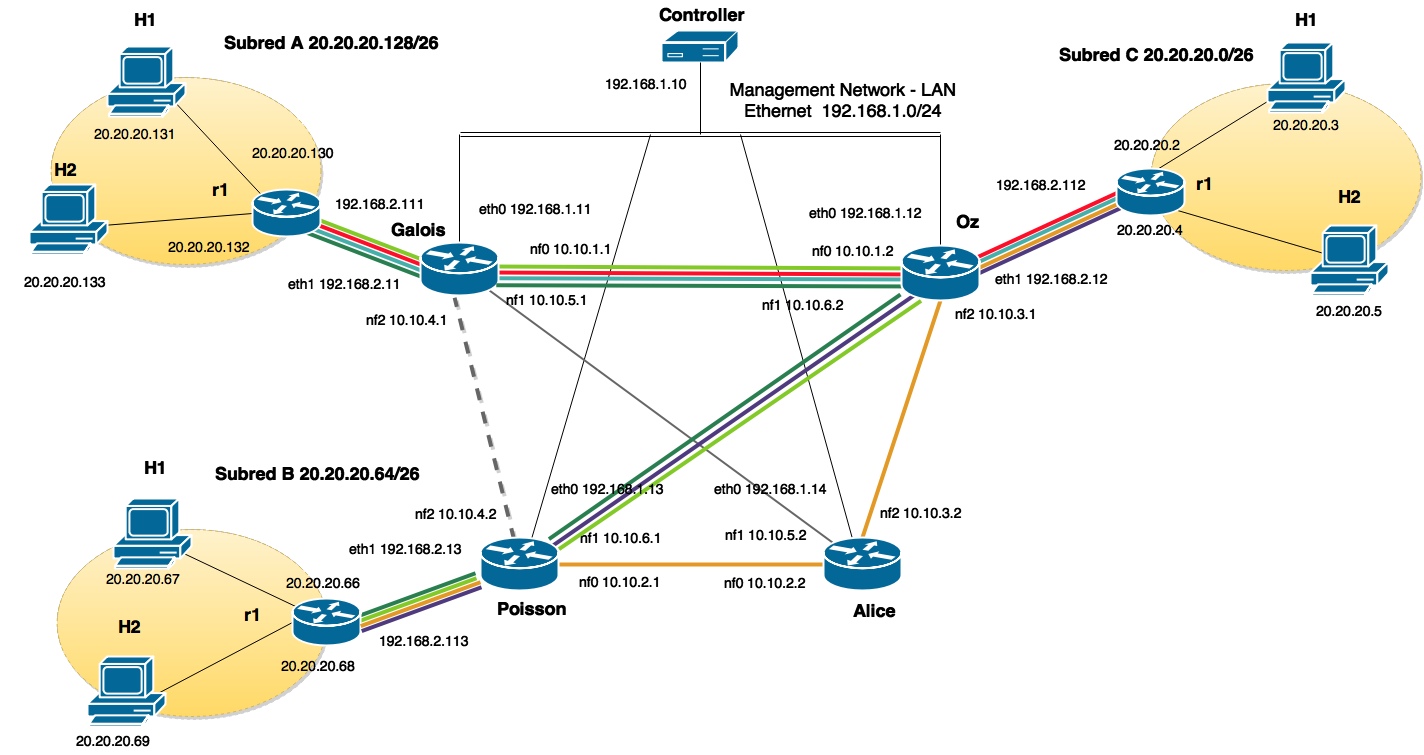
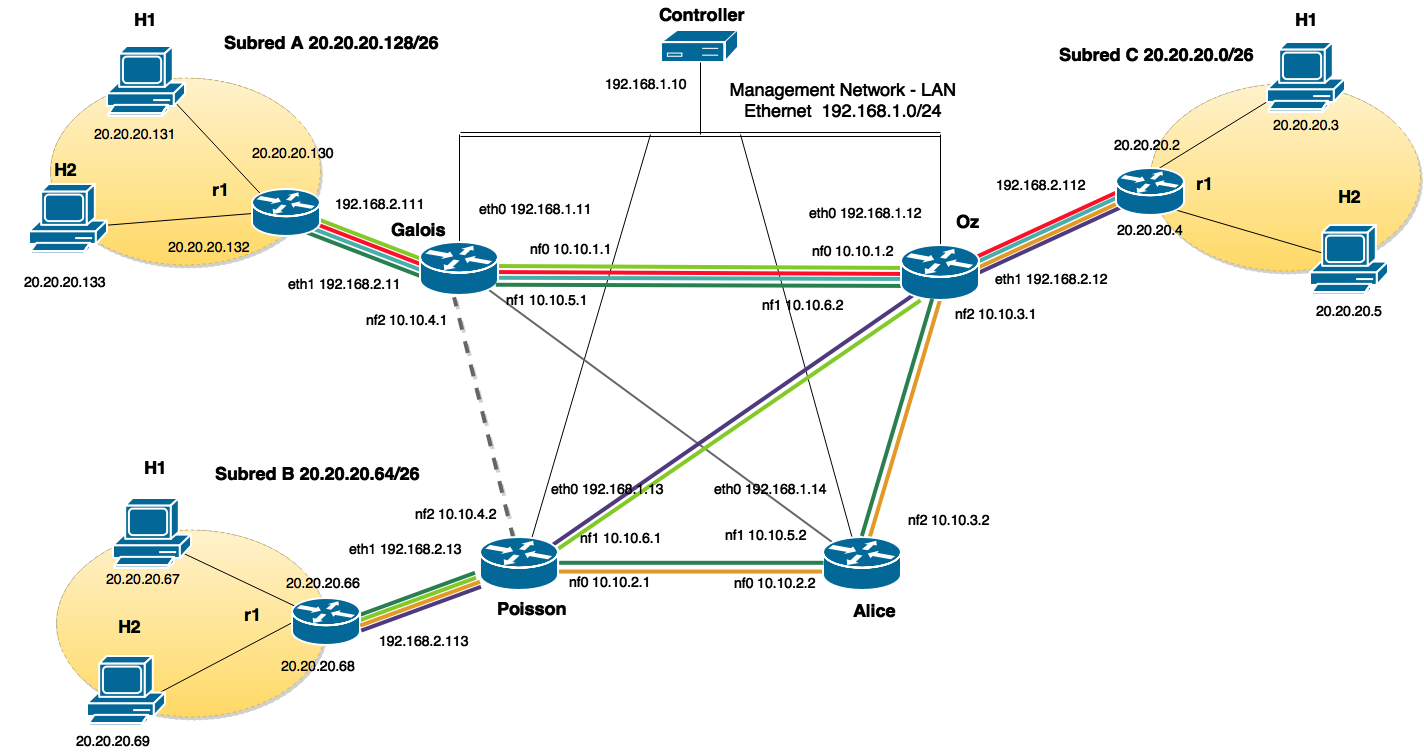
Se sigue trabajando en capitulo 6

diff --git a/Informe/Chapter6/chapter6.tex b/Informe/Chapter6/chapter6.tex
@@ -128,105 +128,107 @@ Para obtener los caminos calculados por el algoritmo de ruteo, se analizan las t
 
 En las figuras ~\ref{fig:CU1P1DumpFlows1}~-~\ref{fig:CU1P1DumpFlows4} se muestran las tablas de flujos asociadas a cada nodo del laboratorio. Para conseguir esta informaci\'on se utiliza el comando \textbf{dump-flows} de la herrmaienta Open vSwitch. Sin embargo puede obtenerse tambi\'en esta informaci\'on desde la propia interfaz gr\'afica de RAUFlow.\\
 
+Asumiendose la notaci\'on $(n, i)$ para referirse a un enlace, donde \textit{n} indica nodo origen e \textit{i} interfaz de reenvío en \textit{n} para el próximo salto, entonces $<(n_1, i_1), \dots, (n_k, i_k)>$ puede usarse para denotar un camino en el laboratorio. De esta forma se pueden comparar f\'acilmente los caminos te\'oricos con los calculados.\\
+
+Tomando como ejemplo el caso del servicio S3, el camino te\'orico puede denotarse de la siguiente forma:
+ 
+$$<(Galois, nf_2)>$$
+
 \begin{figure}[ht!] 
 \centering    
-\includegraphics[width=1.0\textwidth]{E1P1Gal}
+\includegraphics[width=1.0\textwidth]{LabE1P1Gal}
 \caption[Tabla de flujos ovs - Galois]{Tabla de flujos ovs - Galois}
 \label{fig:CU1P1DumpFlows1}
 \end{figure}
 
 \begin{figure}[ht!] 
 \centering    
-\includegraphics[width=1.0\textwidth]{E1P1Oz}
+\includegraphics[width=1.0\textwidth]{LabE1P1Oz}
 \caption[Tabla de flujos ovs - Oz]{Tabla de flujos ovs - Oz}
 \label{fig:CU1P1DumpFlows2}
 \end{figure}
 
 \begin{figure}[ht!] 
 \centering    
-\includegraphics[width=1.0\textwidth]{E1P1Poi}
+\includegraphics[width=1.0\textwidth]{LabE1P1Poi}
 \caption[Tabla de flujos ovs - Poisson]{Tabla de flujos ovs - Poisson}
 \label{fig:CU1P1DumpFlows3}
 \end{figure}
 
 \begin{figure}[ht!] 
 \centering    
-\includegraphics[width=1.0\textwidth]{E1P1Al}
+\includegraphics[width=1.0\textwidth]{LabE1P1Al}
 \caption[Tabla de flujos ovs - Alice]{Tabla de flujos ovs - Alice}
 \label{fig:CU1P1DumpFlows4}
 \end{figure}
 
-Asumiendose la notaci\'on $(n, i)$ para referirse a un enlace, donde \textit{n} indica nodo origen e \textit{i} interfaz de reenvío en \textit{n} para el próximo salto, entonces $<(n_1, i_1), \dots, (n_k, i_k)>$ puede usarse para denotar un camino en el laboratorio. De esta forma se pueden comparar f\'acilmente los caminos te\'oricos con los calculados.\\
 
-Tomando como ejemplo el caso del servicio S5, el camino te\'orico puede denotarse de la siguiente forma:
- 
-$$<(Poisson, nf_1)>$$
+En otras palabras todo tr\'afico IP con origen en la subred A y destino a la subred B, es encaminado a través de la interfaz $nf_2$ en el nodo de ingreso \textit{Galois}. Luego en el nodo de egreso \textit{Poisson} es reenviado por la correspondiente interfaz del servicio.\\
 
-En otras palabras todo tr\'afico IP con origen en la subred B y destino a la subred C, es encaminado a través de la interfaz $nf_1$ en el nodo de ingreso \textit{Poisson}. Luego en el nodo de egreso \textit{Oz} es reenviado por la correspondiente interfaz del servicio.\\
+Analizando las tablas de flujos de los nodos \textit{Galois} y \textit{Poisson}, puede comprobarse fácilmente la correspondencia entre el camino calculado y el camino te\'orico.
 
-Analizando las tablas de flujos de los nodos \textit{Poisson} y \textit{Oz}, puede comprobarse fácilmente la correspondencia entre el camino calculado y el camino te\'orico.
-
-Por un lado en la tabla de flujos de \textit{Poisson} se tiene el siguiente flujo:
+Por un lado en la tabla de flujos de \textit{Galois} se tiene el siguiente flujo:
 
 %Por un lado, acorde a la definci\'on del servicio, Galois debería reenviar todo tr\'afico de tipo \textbf{ip} que ingresa por la interfaz eth1(la cual se corresponde con el n\'umero de puerto openflow 1), con origen en la subred 20.20.20.64/26 y destino 20.20.20.0/64 por la interfaz nf1(la cual se corresponde con el n\'umero de puerto openflow 3).
 
 \begin{center}
-\textit{cookie=0.0, duration=1978.558s, table=0, n\_packets=0, n\_bytes=0, priority=5, \\
-ip,in\_port=1, nw\_src=20.20.20.64/26,nw\_dst=20.20.20.0/26 \\
-actions=dec\_ttl,push\_mpls:0x8847,set\_field:34->mpls\_label,set\_mpls\_ttl(128),output:3 }
+\textit{cookie=0.0, duration=531.354s, table=0, n\_packets=0, n\_bytes=0, priority=5, \\
+ip,in\_port=1, nw\_src=20.20.20.128/26,nw\_dst=20.20.20.0/26 \\
+actions=dec\_ttl,push\_mpls:0x8847,set\_field:30->mpls\_label,set\_mpls\_ttl(128),output:4}
+\label{lst:flows1}
 \end{center}
 
-En pocas palabras este flujo toma todo paquete recibido por el puerto openflow identificado con el n\'umero 1(interfaz eth1), numeración IP origen 20.20.20.64/26(subred B) y destino 20.20.20.0/26 (subred C), decrementa el ttl del paquete, coloca un cabezal mpls con la etiqueta 34 y lo reenvía por el puerto openflow identificado con el n\'umero 3(interfaz nf1). Observar el valor de la etiqueta mpls colocado en el mismo para identificar el servicio(etiqueta interna). 
+En pocas palabras este flujo toma todo paquete recibido por el puerto openflow identificado con el n\'umero 1(interfaz eth1), numeración IP origen 20.20.20.128/26(subred A) y destino 20.20.20.64/26 (subred B), decrementa el ttl del paquete, coloca un cabezal mpls con la etiqueta 32 y lo reenvía por el puerto openflow identificado con el n\'umero 4(interfaz nf2). Observar el valor de la etiqueta mpls colocado en el mismo para identificar el servicio(etiqueta interna). 
 
 %Notese adem\'as la acci\'on \textbf{dec\_ttl} en el flujo. Esta acci\'on es utilizada en cada nodo de borde en la definici\'on de un servicio para decrementar el ttl de un paquete ip cada vez que ingresa a la red del prototipo (en este caso a la red del laboratorio). Observese tambi\'en el valor de la etiqueta mpls(34) colocado en el paquete para identificar el servicio(etiqueta interna).
 
-Por otro lado, una vez que los paquetes asociados al servicio S5 llegan a nodo \textit{Oz} ingresando por la interfaz nf1(puerto openflow n\'umero 3), debe ser retirada la etiqueta mpls interna y reenviarse a través de la interfaz eth1(puerto openflow n\'umero 1).
+Por otro lado, una vez que los paquetes asociados al servicio S3 llegan a nodo \textit{Poisson} ingresando por la interfaz nf2(puerto openflow n\'umero 4), debe ser retirada la etiqueta mpls interna y reenviarse a través de la interfaz eth1(puerto openflow n\'umero 1).
 
-Este comportamiento es implementado en la tabla de flujos de Oz mediante el siguiente flujo:
+Este comportamiento es implementado en la tabla de flujos de Poisson mediante el siguiente flujo:
 
 \begin{center}
-\textit{cookie=0.0, duration=1978.558s, table=0, n\_packets=0, n\_bytes=0, priority=5, \\
-mpls,in\_port=3,mpls\_label=34 \\
+\textit{cookie=0.0, duration=655.076s, table=0, n\_packets=0, n\_bytes=0, priority=5, \\
+mpls,in\_port=4,mpls\_label=32,mpls\_bos=1 \\
 actions=pop\_mpls:0x0800,output:1 }
 \end{center}
 
-De esta forma todos los paquetes asociados al servicio S5 son reenviados desde el nodo de ingreso Poisson al nodo de egreso Oz mediante un solo enlace utilizando un solo nivel de etiquetas mpls.\\
+De esta forma todos los paquetes asociados al servicio S3 son reenviados desde el nodo de ingreso Galois al nodo de egreso Poisson mediante un solo enlace utilizando un solo nivel de etiquetas mpls.\\
 
-Analizando el camino que deben seguir los paquetes que atraviesan la red del laboratorio en el sentido inverso; es decir, desde la subred C hacia la subred B, se analiza el camino calculado para el tr\'afico asociado al servicio S6. 
+Analizando el camino que deben seguir los paquetes que atraviesan la red del laboratorio en el sentido inverso; es decir, desde la subred B hacia la subred A, se analiza el camino calculado para el tr\'afico asociado al servicio S4. 
 
 El camino te\'orico para el tr\'afico asociado a dicho servicio es:
 
-$$<(Oz, nf_0), (Galois, nf_2)>$$ 
+$$<(Poisson, nf_1), (Oz, nf_0)>$$ 
 
-Este camino es implementado mediante los siguientes flujos en la tabla del nodo \textit{Oz} por un lado:
+Este camino es implementado mediante los siguientes flujos en la tabla del nodo \textit{Poisson} por un lado:
 
 \begin{center}
-\textit{cookie=0.0, duration=1978.558s, table=0, n\_packets=0, n\_bytes=0, priority=5, \\
-ip,in\_port=1, nw\_src=20.20.20.0/26,nw\_dst=20.20.20.64/26 \\
-actions=dec\_ttl,push\_mpls:0x8847,set\_field:35->mpls\_label,set\_mpls\_ttl(128), goto\_table:1 \\
-cookie=0.0, duration=1918.304s, table=0, n\_packets=0, n\_bytes=0, priority=5, \\
-mpls,in\_port=1,mpls\_label=35 actions=push\_mpls:0x8847,set\_fied:30->mpls\_label,set\_mpls\_ttl(128),output:2
+\textit{cookie=0.0, duration=655.065s, table=0, n\_packets=0, n\_bytes=0, priority=5, \\
+ip,in\_port=1, nw\_src=20.20.20.64/26,nw\_dst=20.20.20.128/26 \\
+actions=dec\_ttl,push\_mpls:0x8847,set\_field:33->mpls\_label,set\_mpls\_ttl(128), goto\_table:1 \\
+cookie=0.0, duration=655.065s, table=0, n\_packets=0, n\_bytes=0, priority=5, \\
+mpls,in\_port=1,mpls\_label=33 actions=push\_mpls:0x8847,set\_fied:30->mpls\_label,set\_mpls\_ttl(128),output:3
 }
 \end{center}
 
 Notar como primera diferencia en comparación con el camino anterior, que en este caso se tienen dos flujos: un primer flujo para colocar la etiqueta asociada al servicio (etiqueta interna) y un segundo flujo para colocar la etiqueta de reenvío (etiqueta externa). El camino anterior carece de etiqueta externa puesto que al ser un camino de un solo salto, el primer nodo coincide con el pen\'ultimo, y al implementar PHP no se coloca etiqueta externa. 
 
-En pocas palabras se le colocan dos cabezales mpls al paquete y se reenvía a trav\'es del puerto 2(interfaz nf0).\\
+En pocas palabras se le colocan dos cabezales mpls al paquete y se reenvía a trav\'es del puerto n\'umero 3(interfaz nf1).\\
 
-Al llegar al nodo \textit{Galois}, el siguiente salto en el camino es implementado por el siguiente flujo en la tabla de dicho nodo:
+Al llegar al nodo \textit{Oz}, el siguiente salto en el camino es implementado por el siguiente flujo en la tabla de dicho nodo:
 
 \begin{center}
-\textit{cookie=0.0, duration=1846.955s, table=0, n\_packets=0, n\_bytes=0, priority=5, \\
-mpls,in\_port=2,mpls\_label=30 actions=pop\_mpls:0x8847,output:4 }
+\textit{cookie=0.0, duration=610.380s, table=0, n\_packets=243, n\_bytes=25748, priority=5, \\
+mpls,in\_port=3,mpls\_label=30,mpls\_bos=0 actions=pop\_mpls:0x8847,output:2 }
 \end{center}
 
 Se le coloca una nueva etiqueta mpls externa con el valor 30, y se reenvia por el puerto n\'umero 4(interfaz nf2).\\
 
-Finalmente en el nodo \textit{Poisson} el tramo final del camino es implementado por el siguiente flujo en su tabla:
+Finalmente en el nodo \textit{Galois} el tramo final del camino es implementado por el siguiente flujo en su tabla:
 
 \begin{center}
-\textit{cookie=0.0, duration=1978.551s, table=0, n\_packets=0, n\_bytes=0, priority=5, \\
-mpls,in\_port=2,mpls\_label=35 actions=pop\_mpls:0x0800,output:1 }
+\textit{cookie=0.0, duration=531.341s, table=0, n\_packets=234, n\_bytes=23868, priority=5, \\
+mpls,in\_port=2,mpls\_label=33,mpls\_bos=1 actions=pop\_mpls:0x0800,output:1 }
 \end{center}
 
 Análogamente el lector puede completar el análisis de la correspondencia entre los caminos te\'oricos y los calculados por el algoritmo de ruteo. A continuaci\'on se analiza el algoritmo de distribucion de etiquetas.
@@ -264,6 +266,15 @@ Finalmente en la figura \ref{fig:LabE1P1CapHost} puede verse una captura de pant
 \label{fig:LabE1P1CapHost}
 \end{figure}
 
+Análogamente se procesan los paquetes asociados a los restantes servicios dados de alta en el sistema. En la figura \ref{fig:LabE1P1CapsTraf2} se muestra el procesamiento de paquetes asociados al servicio S3, cuando el host 20.20.20.131 en la sub red A envia paquetes ICMP al host 20.20.20.67 en la subred B, utilizando el comando tcpdump para realizar las capturas en la interfaz eth1(cuarto superior izquierdo de la imagen) y nf2(cuarto superior derecho de la imagen) del nodo Galois, y las interfaces nf2(cuarto inferior izquierdo) y eth1 (cuarto inferior derecho) del nodo Poisson.
+
+\begin{figure}[ht!] 
+\centering    
+\includegraphics[width=1.0\textwidth]{LabE1P1CaputrasTrafico}
+\caption[Capturas de tr\'afico con tcpdump - servicio S3]{Capturas de tr\'afico con tcpdump - servicio S3}
+\label{fig:LabE1P1CapsTraf2}
+\end{figure}
+
 %Sin embargo RAUFlow admite realizar clasificaci\'on de tr\'afico por un conjunto bastante m\'as amplio de atributos. A continuaci\'on se definen una nueva lista de servicios orientados a demostrar la correcta implementaci\'on de esta funcionalidad.
 
 %Cabe destacar que para esta prueba los servicios anteriormente creados son eliminados.
@@ -297,8 +308,9 @@ Para probar la actualizaci\'on de rutas cuando cambia la topolog\'ia se trabaja 
 
 Una vez configurado el laboratorio de esta forma, se procede a derribar manualmente los enlaces $<(Galois, nf_2), (Poisson, nf_2)>$ y $<(Poisson, nf_2), (Poisson, nf_2)>$. De esta forma se produce una actualizaci\'on de la topolog\'ia tras la cual se ejecutan los algoritmos de ruteo y distribución de etiquetas para actualizar cada LSP.\\
 
-Acorde a los costos de la topolog\'ia, en esta nueva topolog\'ia los caminos asociados a cada servicio quedar\'ian de la siguiente forma:
+Acorde a los costos de la topolog\'ia (ver figura \ref{fig:LaboratorioDePruebasCostos}), los nuevos caminos te\'oricos asociados a cada servicio, tras la actualziaci\'on son los siguientes:
 
+\newpage
 \begin{figure}[ht!] 
 \centering    
 \includegraphics[width=1.0\textwidth]{CU1P1CaminosRecalculo}
@@ -306,15 +318,44 @@ Acorde a los costos de la topolog\'ia, en esta nueva topolog\'ia los caminos aso
 \label{fig:CUP1Caminos2}
 \end{figure}
  
-Notese que los \'unicos caminos que cambian son los asociados a los servicios S3 y S6. Cabe destacar adem\'as que en la nueva opolog\'ia existe m\'as de un camino de m\'inimo costo para S3. Los caminos $<(Galois, nf0), (Oz, nf1)>$ y $<(Galois, nf0), (Oz, nf2), (Alice, nf0)>$ presentan ambos el costo 4.
+Notese que los \'unicos caminos que cambian son los asociados a los servicios S3 y S6. Cabe destacar adem\'as que en la nueva topolog\'ia existe m\'as de un camino de m\'inimo costo para S3. Los caminos $<(Galois, nf0), (Oz, nf1)>$ y $<(Galois, nf0), (Oz, nf2), (Alice, nf0)>$ presentan ambos el costo 4.
 Por tanto se tienen dos resultados v\'alidos posibles para la salida del algoritmo de ruteo para este servicio.\\
 
-%\begin{figure}[ht!] 
-%\centering    
-%\includegraphics[width=1.0\textwidth]{CU1P1DumpFlows2}
-%\caption[Cambiar por imagen correcta]{Cambiar por imagen correcta}
-%\label{fig:CU1P1DumpFlows2}
-%\end{figure}
+Para comprobar que el algoritmo de ruteo recaclula correctamente las rutas, se inspeccionan nuevamente las tablas de flujos de cada nodo en el laboratorio (ver figuras \ref{fig:CU1P2DumpFlows1}-\ref{fig:CU1P2DumpFlows4}), comparando los caminos calculados con los caminos te\'oricos.
+
+\newpage
+\begin{figure}[ht!] 
+\centering    
+\includegraphics[width=1.0\textwidth]{LabE1P2Gal}
+\caption[Tabla de flujos ovs - Galois]{Tabla de flujos ovs - Galois}
+\label{fig:CU1P2DumpFlows1}
+\end{figure}
+
+\begin{figure}[h] 
+\centering    
+\includegraphics[width=1.0\textwidth]{LabE1P2Poi}
+\caption[Tabla de flujos ovs - Poisson]{Tabla de flujos ovs - Poisson}
+\label{fig:CU1P2DumpFlows3}
+\end{figure}
+
+\begin{figure}[h] 
+\centering    
+\includegraphics[width=1.0\textwidth]{LabE1P2Oz}
+\caption[Tabla de flujos ovs - Oz]{Tabla de flujos ovs - Oz}
+\label{fig:CU1P2DumpFlows2}
+\end{figure}
+
+\begin{figure}[h] 
+\centering    
+\includegraphics[width=1.0\textwidth]{LabE1P2Al}
+\caption[Tabla de flujos ovs - Alice]{Tabla de flujos ovs - Alice}
+\label{fig:CU1P2DumpFlows4}
+\end{figure}
+
+\newpage
+Tomando como ejemplo la actualizaci\'on del LSP asociado al servicio S3, mientras que en la topolog\'ia original el camino asociado es $<(Galois, nf2)>$, tras la actualizaci\'on de la topolog\'ia el camino puede ser o bien $<(Galois, nf0),(Oz, nf1)>$ o bien \\ $<(Galois, nf0), (Oz, nf2), (Alice, nf0)>$.\\
+
+Recordando la tabla de flujos original del nodo \textit{Galois}(ver imagen \ref{fig:CU1P1DumpFlows1}), el flujo \ref{lst:flows1} es el utilizado para procesar y reenviar paquetes al nodo Poisson. Al cambiar el camino asociado a S3, este flujo tambi\'en cambia. 
 
 \newpage
 \subsection{Escenario 2}
